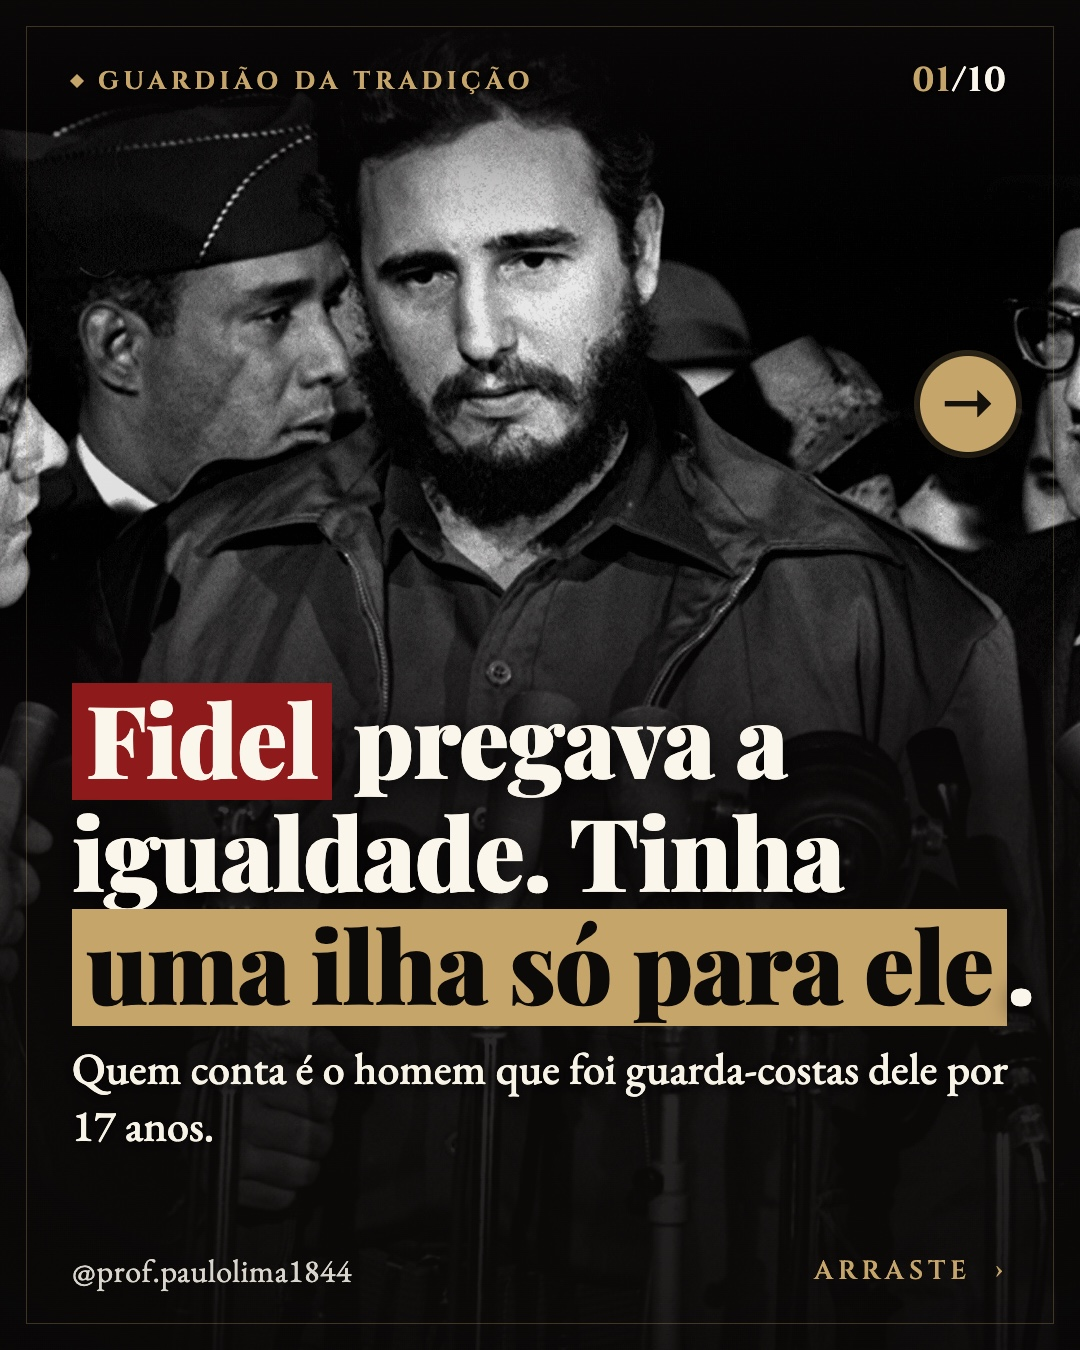
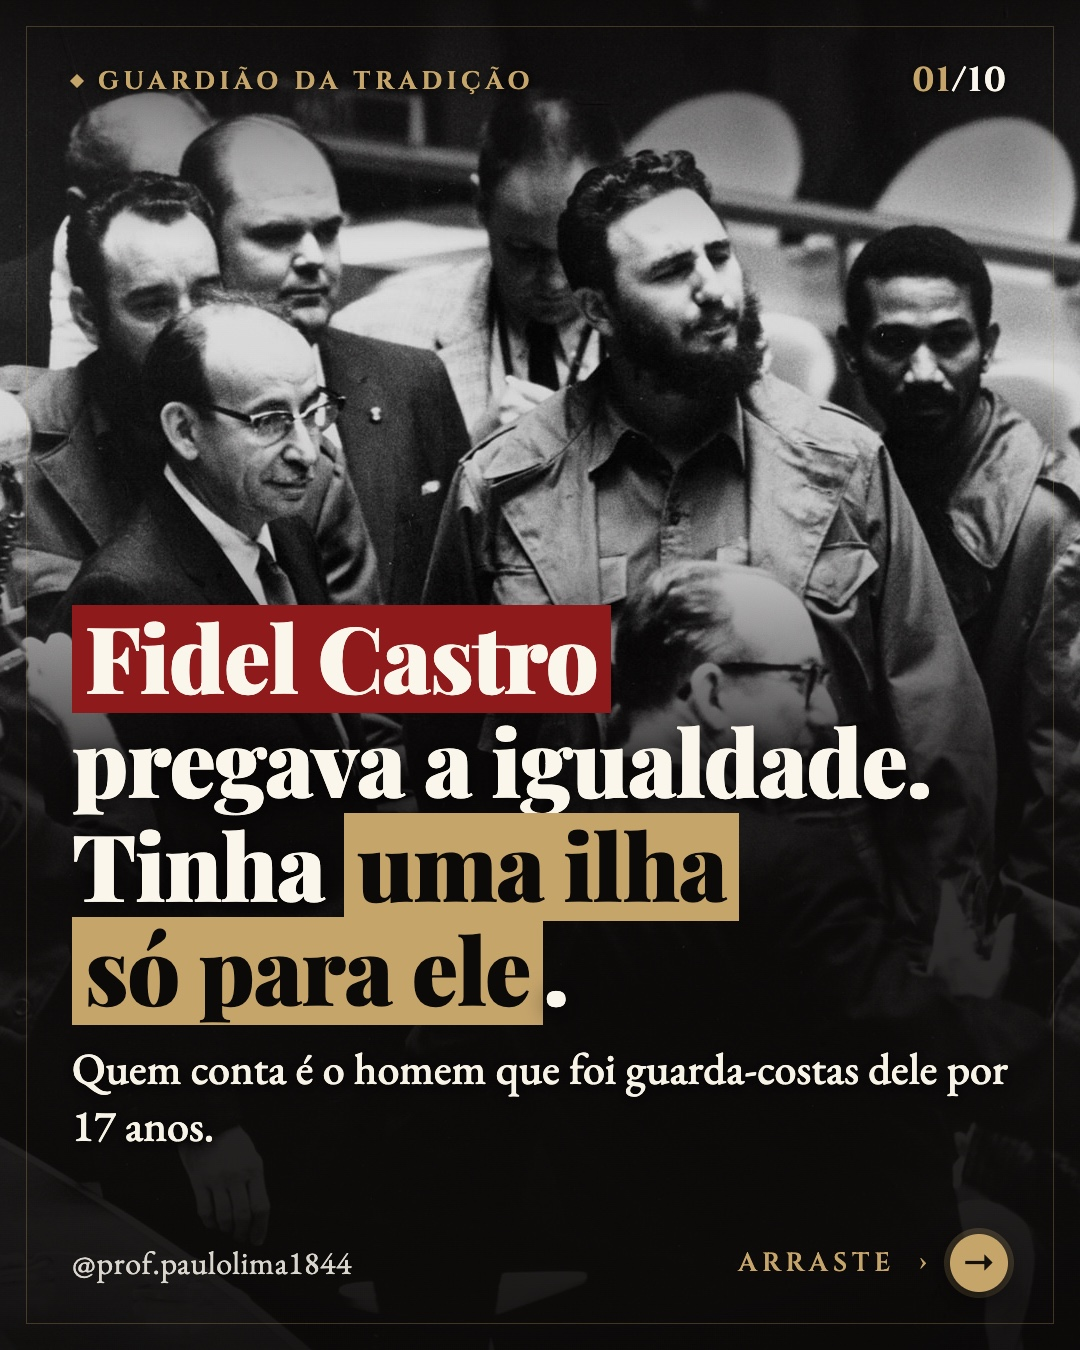
fila 20/10: G198 18h30, G315 20h30; 21/10 Mao, Fidel, Stalin, Picasso, Identitarismo; G288 Lennon 22/10; G286 Neruda pausado (Paulo)

diff --git a/decidir.py b/decidir.py
@@ -48,8 +48,8 @@ ESPECIAIS = {
         # 19h14: Gramsci forçado a pedido do Paulo; 21h: mais um (DIR1).
         # 07/10/2026: Paulo pediu o carrossel da democracia (DEM1) às 19h; CPV1 segue às 20h (intervalo do dia: 55 min).
         date(2026, 10, 13): ([7.5, 11.5, 15.5, 21], timedelta(minutes=90), 4),
-        date(2026, 10, 21): ([7.5, 14, 18.5], timedelta(minutes=90), 3),  # lote validado 18/10: G310 Freire/Mao, G344 Chaui, G274 Steinem
-        date(2026, 10, 20): ([7.5, 14, 18.5, 20.5], timedelta(minutes=90), 4),  # lote validado 18/10: G333, G298, G291, G286
+        date(2026, 10, 21): ([7.5, 11.5, 14, 18.5, 20.5], timedelta(minutes=90), 5),  # validado 20/10: G276 Mao, G273 Fidel, G318 Stalin, G296 Picasso, G314 Identitarismo
+        date(2026, 10, 20): ([7.5, 14, 14.25, 18.5, 20.5], timedelta(minutes=90), 5),  # G345 7h24, G333+G298 14h, G198 Livros 18h30, G315 Marx/Bolsa 20h30 (Paulo 20/10)
         date(2026, 10, 19): ([7.5, 14, 18.5, 20.5], timedelta(minutes=90), 4),  # lote validado 18/10: G299, G322, G329, G337
         date(2026, 10, 18): ([7.5, 10, 14, 18.5], timedelta(minutes=90), 4),  # 18/10: G294 (vídeo) 07h30, G338 Obama antecipado (saiu 10h21), G280 Rivera 14h, G265 Aristóteles×Freire 18h30 (lote validado pelo Paulo 18/10)
         date(2026, 10, 17): ([7, 12, 15, 17.5, 21.25], timedelta(minutes=90), 5),  # 17/10: Paulo pediu extras às 15h e 17h30  # ULTRA_ESTRATEGIA: 07h00, 12h30, 18h00, 21h15
